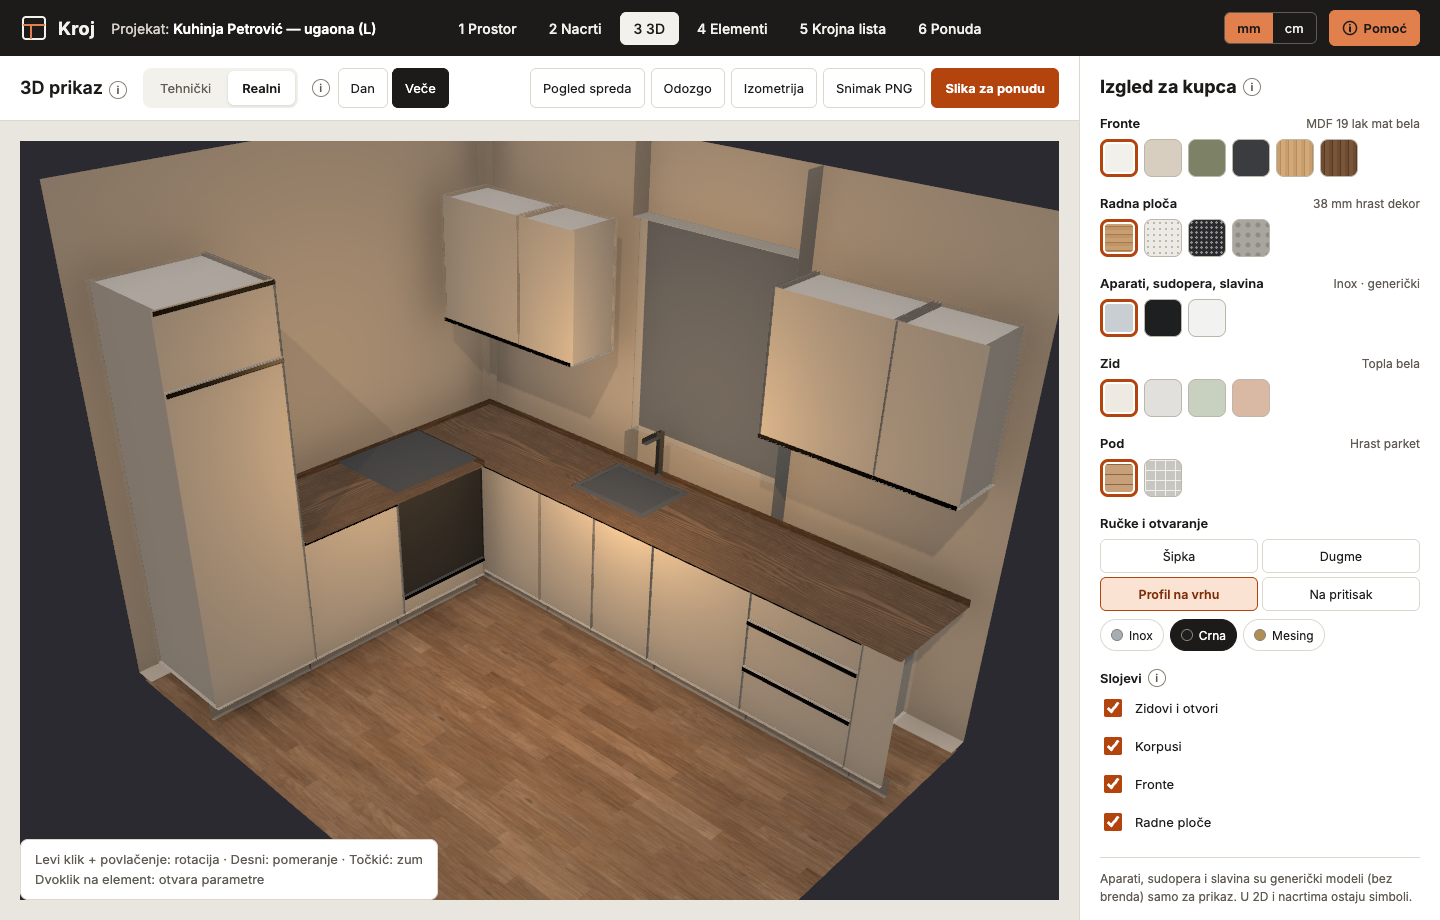
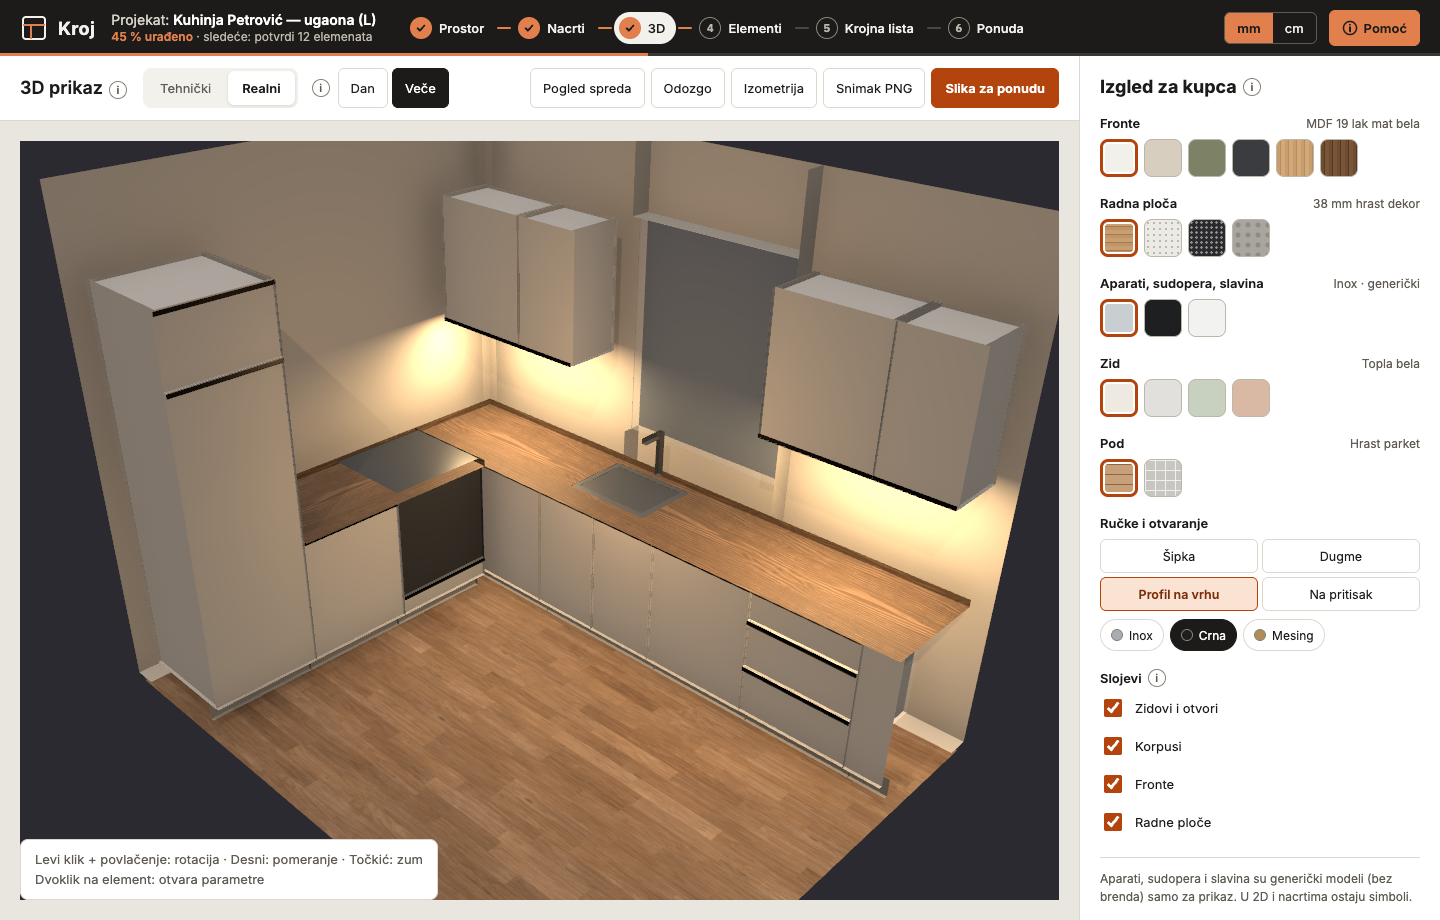
Realistic 3D: under-cabinet LED at night, lower quality on touch devices (no shadows / AO, dpr 1.5); approved night snapshot updated

diff --git a/apps/web/src/SceneGL.tsx b/apps/web/src/SceneGL.tsx
@@ -7,10 +7,11 @@
 import { ContactShadows, Edges, Environment, Lightformer, OrbitControls } from '@react-three/drei';
 import { Canvas, useFrame, useThree } from '@react-three/fiber';
 import { EffectComposer, N8AO } from '@react-three/postprocessing';
-import { interiorSide, MAT_COLORS, sceneBoxes, wallGeoms, type Box3, type Mat3, type Project } from 'engine';
+import { interiorSide, MAT_COLORS, sceneBoxes, sideOf, wallGeoms, wallPoint, type Box3, type Mat3, type Project } from 'engine';
 import { useEffect, useMemo, useRef } from 'react';
 import { useNavigate } from 'react-router';
 import * as THREE from 'three';
+import { RectAreaLightUniformsLib } from 'three/examples/jsm/lights/RectAreaLightUniformsLib.js';
 import type { Palette } from './look';
 import { lookOf, ROUGHNESS, textureUrl, useLooks } from './materialLooks';
 import { useWorkshop } from './workshop';
@@ -102,6 +103,33 @@ function DollHouse({ walls }: { walls: { mesh: React.RefObject<THREE.Mesh | null
   return null;
 }
 
+RectAreaLightUniformsLib.init();
+
+/**
+ * Quality of the realistic view: touch devices (iPad, phones) get no shadows, no ambient occlusion and a lower pixel ratio,
+ * so the view stays smooth there; computers keep everything. Checked once per page load.
+ */
+const LOW = typeof window !== 'undefined' && window.matchMedia?.('(pointer: coarse)').matches;
+
+/** Under-cabinet LED (Veče): a glowing strip behind the front edge of every wall unit and a light shining down on the worktop. */
+function Leds({ project }: { project: Project }) {
+  const geoms = wallGeoms(project.room);
+  return <>
+    {project.elements.filter(e => e.kind === 'wall' && geoms[e.wallId]).map(e => {
+      const g = geoms[e.wallId], side = sideOf(geoms, e);
+      // 50 mm behind the front, centred on the unit; plan (x, y) → three (x, z), mm → m.
+      const c = wallPoint(g, e.offset + e.width / 2, g.th / 2 + e.depth - 50, side);
+      const len = (e.width - 40) / 1000, y = (e.elevation ?? 1450) / 1000 - 0.006, rotY = -Math.atan2(g.uy, g.ux);
+      return (
+        <group key={e.id} position={[c.x / 1000, y, c.y / 1000]} rotation-y={rotY}>
+          <mesh><boxGeometry args={[len, 0.008, 0.012]} /><meshStandardMaterial color="#FFF1DA" emissive="#FFD9A0" emissiveIntensity={3} /></mesh>
+          <rectAreaLight width={len} height={0.06} intensity={90} color="#FFD49A" rotation-x={-Math.PI / 2} position={[0, -0.005, 0]} />
+        </group>
+      );
+    })}
+  </>;
+}
+
 export function SceneGL({ project, cam, solid, sel, onSel, layers, real, night }: {
   project: Project; cam: Cam; solid: boolean; sel: string | null; onSel: (id: string | null) => void; layers: Layers; real?: Palette; night?: boolean;
 }) {
@@ -155,7 +183,7 @@ export function SceneGL({ project, cam, solid, sel, onSel, layers, real, night }
   }), [geoms, parts]);
 
   return (
-    <Canvas className="s3-gl" shadows={!!real} gl={{ preserveDrawingBuffer: true, antialias: true }} dpr={[1, 2]}
+    <Canvas className="s3-gl" shadows={!!real && !LOW} gl={{ preserveDrawingBuffer: true, antialias: true }} dpr={LOW ? [1, 1.5] : [1, 2]}
       camera={{ fov: real ? 35 : 40, near: 0.05, far: 200 }} onPointerMissed={() => onSel(null)}>
       <color attach="background" args={[night ? '#2B2A30' : '#E9E6DF']} />
       {real ? <>
@@ -163,13 +191,14 @@ export function SceneGL({ project, cam, solid, sel, onSel, layers, real, night }
         <directionalLight position={[3, 6, 5]} intensity={night ? 0.6 : 2.2} color={night ? '#FFD6A8' : '#FFF6EA'} castShadow
           shadow-mapSize={[2048, 2048]} shadow-bias={-0.0004} shadow-normalBias={0.02}
           shadow-camera-left={-6} shadow-camera-right={6} shadow-camera-top={6} shadow-camera-bottom={-6} />
-        {night && <pointLight position={[bounds.getCenter(new THREE.Vector3()).x, 1.35, bounds.getCenter(new THREE.Vector3()).z]} intensity={2.5} color="#FFC98A" distance={6} />}
+        {night && <pointLight position={[bounds.getCenter(new THREE.Vector3()).x, 1.35, bounds.getCenter(new THREE.Vector3()).z]} intensity={1.2} color="#FFC98A" distance={6} />}
         <Environment resolution={256} environmentIntensity={night ? 0.25 : 0.9}>
           <Lightformer intensity={2} position={[0, 5, 0]} rotation-x={Math.PI / 2} scale={[10, 10, 1]} />
           <Lightformer intensity={1.2} position={[6, 2, 4]} rotation-y={-Math.PI / 3} scale={[6, 3, 1]} color="#FFF3E0" />
           <Lightformer intensity={0.6} position={[-6, 2, 4]} rotation-y={Math.PI / 3} scale={[6, 3, 1]} color="#E6EEFF" />
         </Environment>
-        <ContactShadows position={[bounds.getCenter(new THREE.Vector3()).x, 0.001, bounds.getCenter(new THREE.Vector3()).z]} scale={10} opacity={0.35} blur={2.5} far={1.2} />
+        {night && <Leds project={project} />}
+        {!LOW && <ContactShadows position={[bounds.getCenter(new THREE.Vector3()).x, 0.001, bounds.getCenter(new THREE.Vector3()).z]} scale={10} opacity={0.35} blur={2.5} far={1.2} />}
         <DollHouse walls={walls} />
       </> : <>
         <ambientLight intensity={1.6} />
@@ -198,7 +227,7 @@ export function SceneGL({ project, cam, solid, sel, onSel, layers, real, night }
           </mesh>
         );
       })}
-      {real && <EffectComposer multisampling={4}><N8AO aoRadius={0.35} intensity={2.2} distanceFalloff={0.6} quality="medium" /></EffectComposer>}
+      {real && !LOW && <EffectComposer multisampling={4}><N8AO aoRadius={0.35} intensity={2.2} distanceFalloff={0.6} quality="medium" /></EffectComposer>}
       <OrbitControls makeDefault />
       <Rig cam={cam} box={bounds} />
     </Canvas>

diff --git a/docs/PROGRESS.md b/docs/PROGRESS.md
@@ -39,9 +39,9 @@ To resume: `git pull`, then tell Claude "nastavi gde smo stali".
   - the "Pregledano" (Nacrti) and "Potvrdi konstrukciju" (Element) buttons are ours, because the design has no controls for them;
   - the design's 59 % example counts 13 elements and 11 installations (fixture: 12 / 6), so our header shows 53 % / 58 % for the same state.
 - **Next session:**
-  - realistic 3D without decors: LED under wall units at night, iPad quality setting, path-traced "Slika za ponudu";
-  - or CNC export (item 4).
-  - Open: store selection / zoom / tab in `resume` (TOK_PROJEKTA); "nema instalacija" toggle in Prostor (the `marks.noInstallations` field exists, no UI yet).
+  - realistic 3D: path-traced "Slika za ponudu" (LED and iPad quality are done 2026-11-20);
+  - or CNC export (item 4);
+  - open: selection / zoom / tab in `resume`; a "nema instalacija" toggle in Prostor.
 
 **Still to implement, in order:**
 1. **Rest of export 8:**
@@ -96,6 +96,11 @@ Work happens on `realistic-3d`; `main` keeps the current SVG Realni until the tr
 Measured difference vs reference (2026-11-19, % of pixels): KrojnaLista 0.2, AIPredlog 0.1, AIPodesavanja 0.2, Sajt 0.3, Prijava 0.3, Obracun 0.5, Cenovnik 0.6, Nacrti 0.9–1.0, Pogled3D 0.9, Main 2.0, BrziStart 1.8, Standardi 1.7, Element 1.9, Zid 2.5, Poredjenje 2.5.
 
 ## Done
+- **Realistic 3D: LED at night + iPad quality (2026-11-20):** `apps/web/src/SceneGL.tsx`.
+  - **Veče:** every wall unit gets an under-cabinet LED. A glowing strip sits 50 mm behind the front edge and a `RectAreaLight` (width = unit − 40 mm, 90 nits, warm `#FFD49A`) shines down on the worktop and wall. The general night point light is softer (2.5 → 1.2), so the LEDs read as the light source.
+  - **Quality:** touch devices (`(pointer: coarse)`: iPad, phones) get no shadows, no N8AO ambient occlusion, no contact shadows and pixel ratio ≤ 1.5. Computers keep everything. Automatic, no UI (the design has no control for it).
+  - `visual/approved/Pogled3D_vece.png` updated to the LED look (user can ask to revert).
+  - Checked: desktop render, iPad Pro emulation (coarse pointer, no errors); visual 32/32 twice.
 - **Projekti screen + "Nastavi gde si stao" (2026-11-19, export 10 step 4):**
   - `apps/web/src/projects.ts`: the workshop's projects in localStorage `kroj-projects` ({ project, updatedAt, resume }).
     - Every change of the open project is copied there (store subscription).
